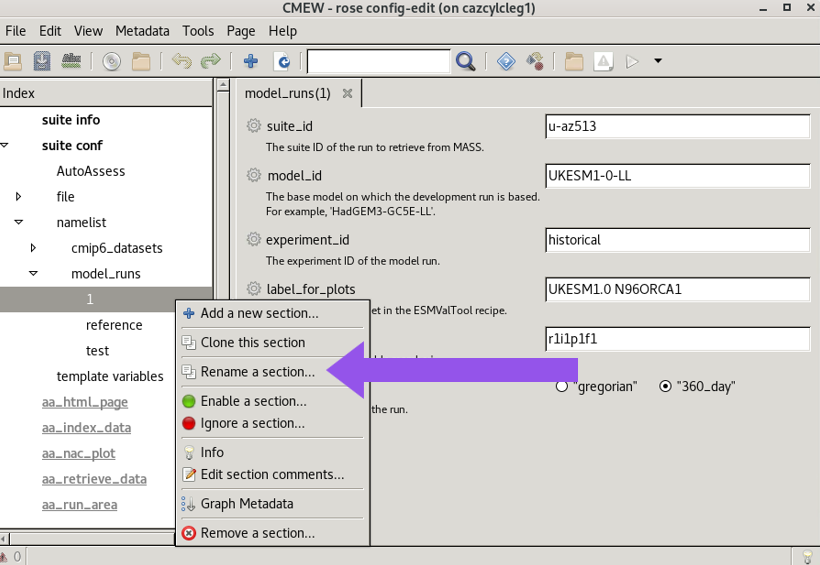
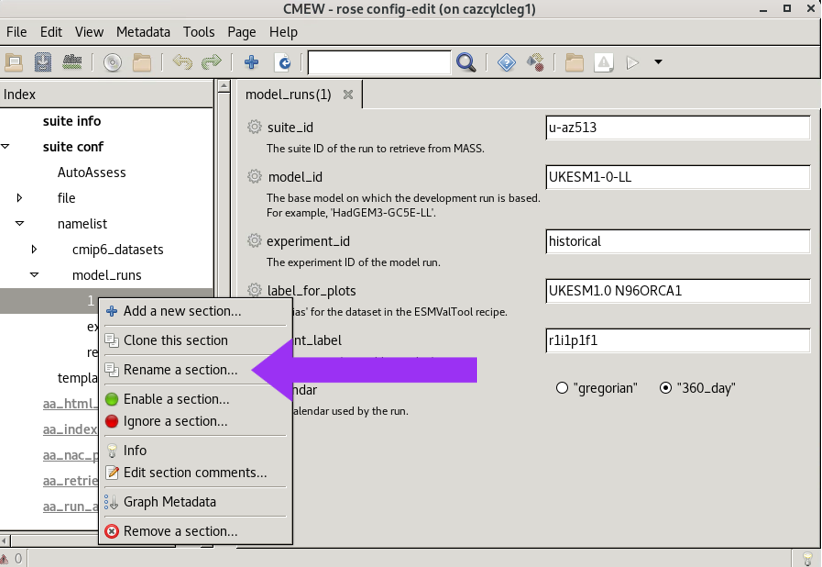
Changing to ref and exp

diff --git a/CMEW/lib/python/scrape_ini.py b/CMEW/lib/python/scrape_ini.py
@@ -100,19 +100,19 @@ def retrieve_value(fp, indicator, key):
 
 def find_ref(fp):
     """Return the reference suite ID"""
-    return retrieve_value(fp, "reference", "suite_id")
+    return retrieve_value(fp, "ref", "suite_id")
 
 
 def find_eval(fp):
     """Return the evaluation suite ID"""
-    return retrieve_value(fp, "test", "suite_id")
+    return retrieve_value(fp, "exp", "suite_id")
 
 
 def find_ref_label(fp):
     """Return the reference label for plots"""
-    return retrieve_value(fp, "reference", "label_for_plots")
+    return retrieve_value(fp, "ref", "label_for_plots")
 
 
 def find_eval_label(fp):
     """Return the evaluation label for plots"""
-    return retrieve_value(fp, "test", "label_for_plots")
+    return retrieve_value(fp, "exp", "label_for_plots")

diff --git a/doc/source/user_guide/configuring_datasets.rst b/doc/source/user_guide/configuring_datasets.rst
@@ -46,8 +46,9 @@ Choosing the reference dataset
 
 AutoAssess metrics expect a reference and an evaluation run.
 |CMEW| identifies these by the names of the model run sections in the ``rose-suite.conf`` file;
-the reference run must be named **reference** and the evaluation run named **test**.
-Any additional runs will be ignored by AutoAssess but will be passed to the ESMValTool recipes.
+the reference run must be named **ref** and the evaluation run named **exp**.
+Any additional runs will be ignored by AutoAssess
+but will be passed to the ESMValTool recipes in exactly the same way as the evaluation run "exp".
 These runs may be named as any other string.
 If the clone button is used, the default is "1", "2" and so on.
 
@@ -74,7 +75,7 @@ rather than using the Rose GUI.
 
 .. image:: images/rose_suite_model_sections.png
    :alt: An image of the ``rose-suite.conf`` file in a text editor
-         with an arrow pointing to the section header "namelist:model_runs(reference)".
+         with an arrow pointing to the section header "namelist:model_runs(ref)".
    :width: 300px
 
 